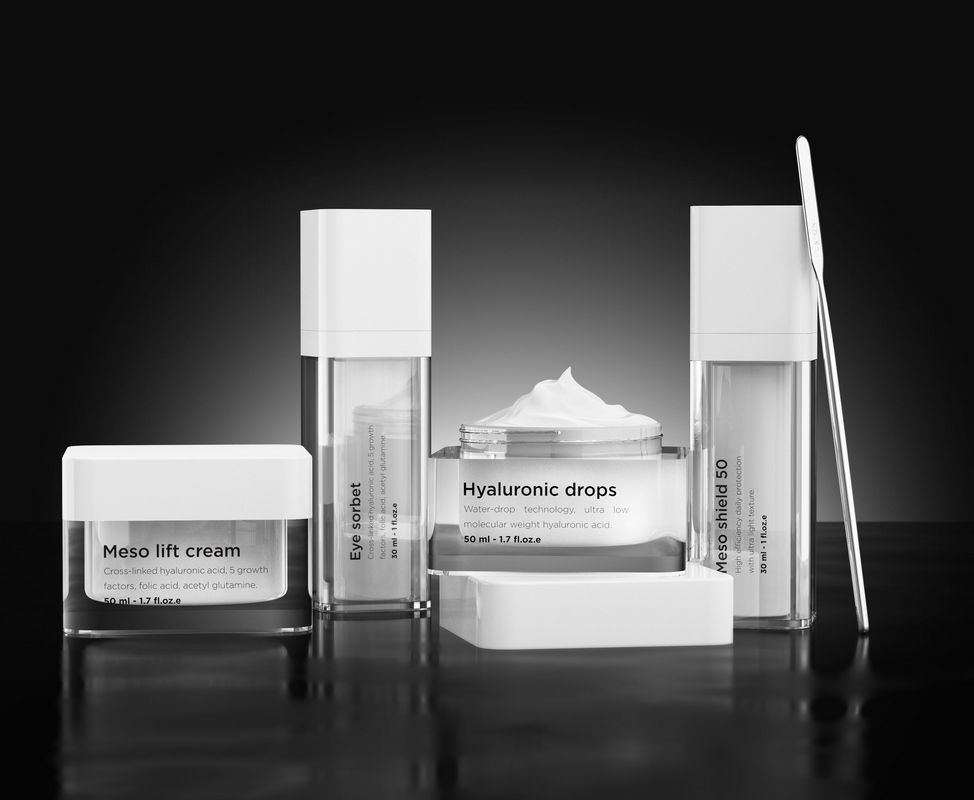
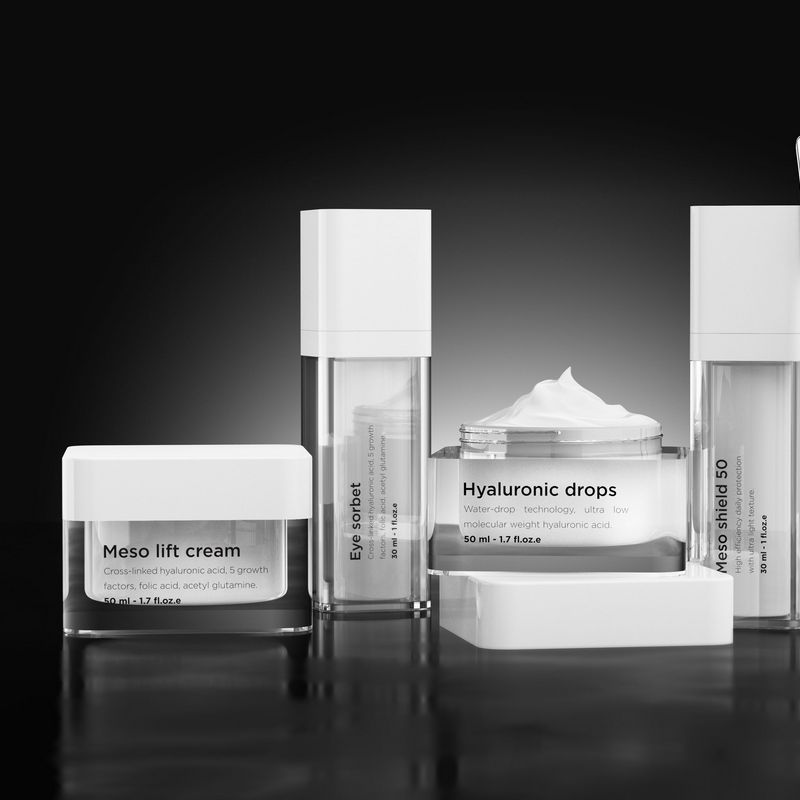
cards added

diff --git a/src/Carousel.js b/src/Carousel.js
@@ -1,12 +1,51 @@
 import React from "react"
 import SwiperCore, { Navigation, Pagination } from 'swiper';
 import { Swiper, SwiperSlide } from 'swiper/react';
+import { Card, Button } from "react-bootstrap"
 
 //npm isntall node-sass
 import 'swiper/swiper.scss';
 import 'swiper/components/navigation/navigation.scss';
 import 'swiper/components/pagination/pagination.scss';
 import './styles/Carousel.scss';
+
+const products = [
+    {
+        name: "Lotion",
+        brand: "Meso",
+        description: "Lorem ipsum",
+        img: "Image01.jpg"
+    },
+    {
+        name: "Lotion",
+        brand: "Meso",
+        description: "Lorem ipsum",
+        img: "Image02.jpg"
+    },
+    {
+        name: "Lotion",
+        brand: "Meso",
+        description: "Lorem ipsum",
+        img: "Image03.jpg"
+    }, {
+        name: "Lotion",
+        brand: "Meso",
+        description: "Lorem ipsum",
+        img: "Image04.jpg"
+    },
+    {
+        name: "Lotion",
+        brand: "Meso",
+        description: "Lorem ipsum",
+        img: "Image05.jpg"
+    },
+    {
+        name: "Lotion",
+        brand: "Meso",
+        description: "Lorem ipsum",
+        img: "Image06.jpg"
+    }
+]
 
 // install Swiper components
 SwiperCore.use([Navigation, Pagination]);
@@ -24,13 +63,24 @@ export default () => {
                 onSwiper={(swiper) => console.log(swiper)}
                 onSlideChange={() => console.log('slide change')}
             >
-                <SwiperSlide><img src={require("./images/products/Image01.jpg")} alt="Skin Care Products"></img></SwiperSlide>
-                <SwiperSlide><img src={require("./images/products/Image02.jpg")} alt="Skin Care Products"></img></SwiperSlide>
-                <SwiperSlide><img src={require("./images/products/Image03.jpg")} alt="Skin Care Products"></img></SwiperSlide>
-                <SwiperSlide><img src={require("./images/products/Image04.jpg")} alt="Skin Care Products"></img></SwiperSlide>
-                <SwiperSlide><img src={require("./images/products/Image05.jpg")} alt="Skin Care Products"></img></SwiperSlide>
-                <SwiperSlide><img src={require("./images/products/Image06.jpg")} alt="Skin Care Products"></img></SwiperSlide>
-                <SwiperSlide><img src={require("./images/products/Image07.jpg")} alt="Skin Care Products"></img></SwiperSlide>
+                {/* <SwiperSlide><img src={require("./images/products/Image01.jpg")} alt="Skin Care Products"></img></SwiperSlide> */}
+                {products.map((product, index) => (
+                    <SwiperSlide key={index}>
+                        <Card>
+                            <Card.Img variant="top" src={require(`./images/products/${product.img}`)} />
+                            <Card.Body>
+                                <Card.Title>{product.name}</Card.Title>
+                                <Card.Text>
+                                    Some quick example text to build on the card title and make up the bulk of
+                                    the card's content.
+                                </Card.Text>
+                                <Button variant="primary">Shop</Button>
+                            </Card.Body>
+                        </Card>
+                    </SwiperSlide>
+                ))
+
+                }
             </Swiper>
         </section>
     );

diff --git a/src/styles/Carousel.scss b/src/styles/Carousel.scss
@@ -4,4 +4,7 @@
    display: flex;
    justify-content: center;
  }
+ img {
+  object-fit: cover;
+ }
 }
